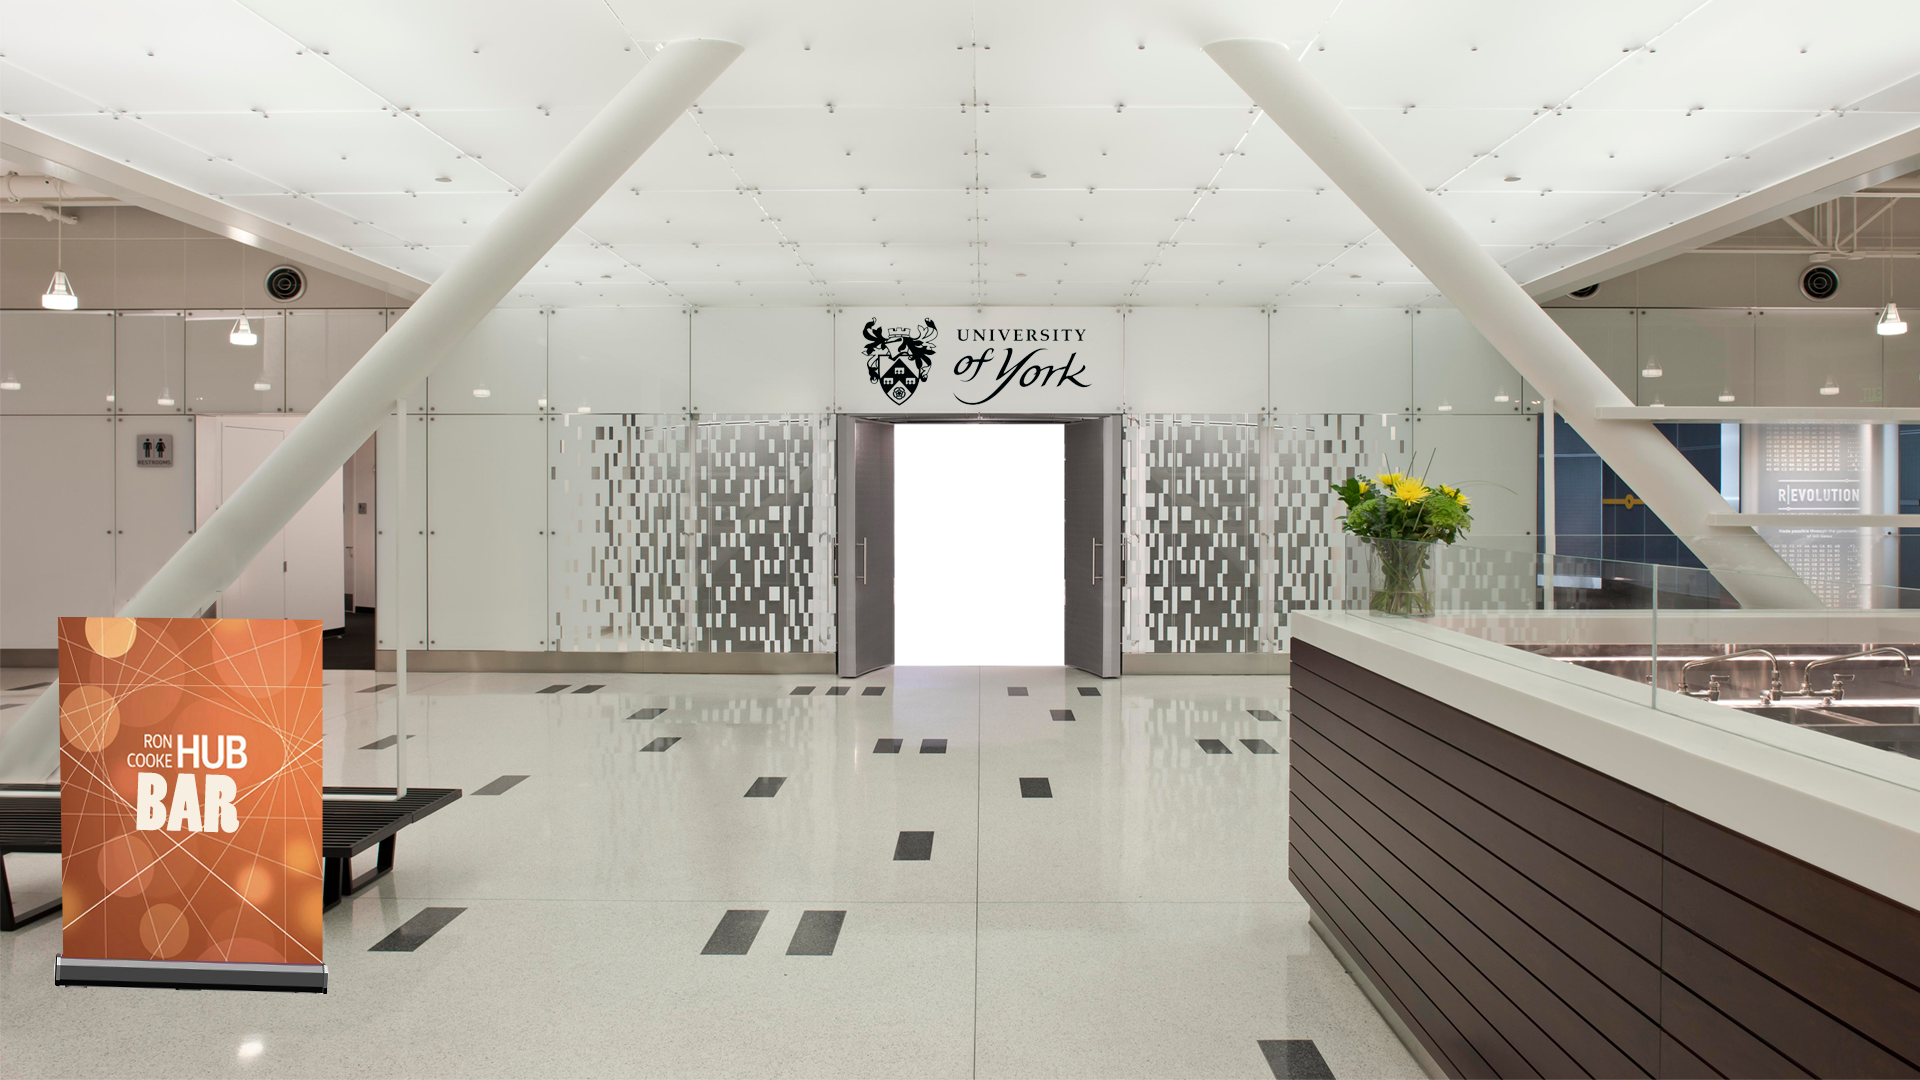
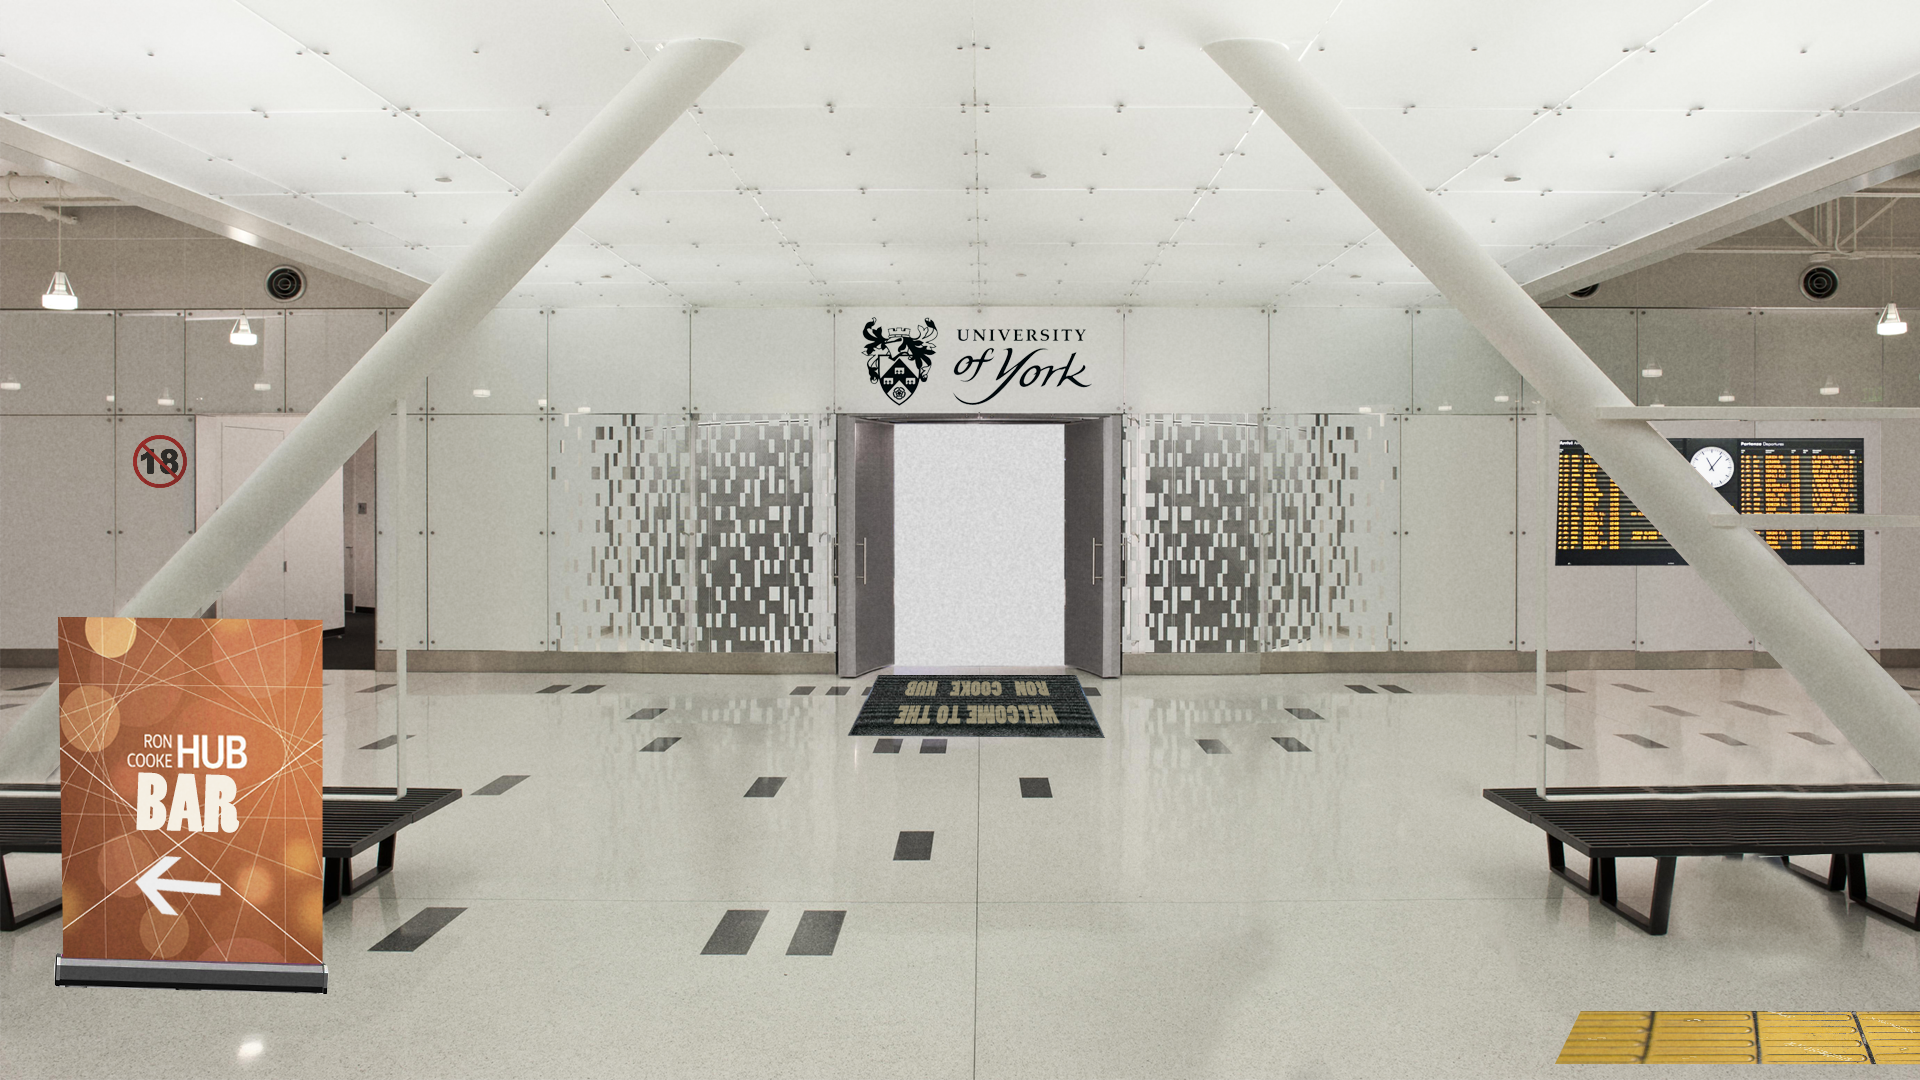
new bg for room 2. many more story and room2 methods, including the ability to check which characters belong in a room

diff --git a/Game/Clued-Up/Assets/Scripts/Room1Controller.cs b/Game/Clued-Up/Assets/Scripts/Room1Controller.cs
@@ -37,10 +37,21 @@ public class Room1Controller : MonoBehaviour {
 			
 	}
 
-	private void setBackground(Material[] mats){
+	private void setBackground(){
+		Material[] materialArray = new Material[8];
+		materialArray[0] = (Material)Resources.Load("Room1Sunny", typeof(Material)); //finds material located in the resources folder
+		materialArray[1] = (Material)Resources.Load("Room1Rain", typeof(Material));
+		materialArray[2] = (Material)Resources.Load("Room1Sunset", typeof(Material));
+		materialArray[3] = (Material)Resources.Load("Room1Snow", typeof(Material));
+		//floor materials start
+		materialArray[4] = (Material)Resources.Load("Room1FSunny", typeof(Material));
+		materialArray[5] = (Material)Resources.Load("Room1FRain", typeof(Material));
+		materialArray[6] = (Material)Resources.Load("Room1FSunset", typeof(Material));
+		materialArray[7] = (Material)Resources.Load("Room1FSnow", typeof(Material));
+
 		int weather = story.getWeather ();
-		backgroundPane.GetComponent<Renderer> ().material = mats [weather];
-		floor.GetComponent<Renderer> ().material = mats [weather + 4];
+		backgroundPane.GetComponent<Renderer> ().material = materialArray [weather];
+		floor.GetComponent<Renderer> ().material = materialArray [weather + 4];
 		if (weather == 1) {	//set generators depending on weather
 			rainGenerator.SetActive (true);
 		} else if (weather == 3) {
@@ -72,19 +83,8 @@ public class Room1Controller : MonoBehaviour {
 		story = GameObject.Find("Story").GetComponent<Story>(); // references persistant object story
 		detectives.transform.GetChild(story.getDetective()).gameObject.SetActive(true); //only activates the chosen detective by using the detective int as an index of children of the Detectives object
 
-		Material[] materialArray = new Material[8];
-		materialArray[0] = (Material)Resources.Load("Room1Sunny", typeof(Material)); //finds material located in the resources folder
-		materialArray[1] = (Material)Resources.Load("Room1Rain", typeof(Material));
-		materialArray[2] = (Material)Resources.Load("Room1Sunset", typeof(Material));
-		materialArray[3] = (Material)Resources.Load("Room1Snow", typeof(Material));
-		//floor materials start
-		materialArray[4] = (Material)Resources.Load("Room1FSunny", typeof(Material));
-		materialArray[5] = (Material)Resources.Load("Room1FRain", typeof(Material));
-		materialArray[6] = (Material)Resources.Load("Room1FSunset", typeof(Material));
-		materialArray[7] = (Material)Resources.Load("Room1FSnow", typeof(Material));
-
 		setOverlay ();
-		setBackground (materialArray);
+		setBackground ();
 		setLights ();
 		setClues ();
 

diff --git a/Game/Clued-Up/Assets/Scripts/Room2Controller.cs b/Game/Clued-Up/Assets/Scripts/Room2Controller.cs
@@ -1,10 +1,13 @@
 using UnityEngine;
 using System.Collections;
 using UnityEngine.UI;
+using System.Collections.Generic;
 
 public class Room2Controller : MonoBehaviour {
-	public GameObject backgroundPane;
 	public GameObject overlayPanel;
+	public GameObject doorQuad;
+		
+	private Story story;
 
 	private void setOverlay(){
 		//turns on overlay panel, fades it out
@@ -20,16 +23,47 @@ public class Room2Controller : MonoBehaviour {
 		bodyClue.GetComponent<Clue>().initialise("chalkOutline", "Chalk Outline", "A chalk outline of the deceased.");
 	}
 
+	private void setDoor(){
+		Material[] materialArray = new Material[8];
+		//maretialArray for DoorQuad materials
+		materialArray [0] = (Material)Resources.Load ("Room2DSunny", typeof(Material)); //finds material located in the resources folder
+		materialArray [1] = (Material)Resources.Load ("Room2DRain", typeof(Material));
+		materialArray [2] = (Material)Resources.Load ("Room2DSunset", typeof(Material));
+		materialArray [3] = (Material)Resources.Load ("Room2DSnow", typeof(Material));
+
+		doorQuad.GetComponent<Renderer> ().material = materialArray [story.getWeather ()];
+	}
+
+	private void getCharacters(){
+		List<GameObject> charactersInRoom = story.getCharactersInRoom (2);
+		switch (charactersInRoom.Count) {
+		case 1:
+			//do stuff to make one character active
+			Debug.Log (charactersInRoom [0].GetComponent<Character>().longName + "is in the room!");
+			break;
+		case 2:
+			//do stuff to make two characters active in the same room
+			break;
+		default:
+			Debug.Log ("No characters this time");
+			break;
+		}			
+	}
+
 	void Start () {
 		setOverlay ();
 		GameObject detective = GameObject.Find ("Detective");
 		detective.GetComponent<Detective> ().walkIn();
 
-		//Make vective slightly lower in screen
+		story = GameObject.Find("Story").GetComponent<Story>(); // references persistant object story
+
+		//Make detective slightly lower in screen
 		Vector3 pos = detective.transform.position;
 		pos.y = -6.5f;
 		detective.transform.position = pos;
 
+		setDoor ();
+		getCharacters ();
 		//setClues ();
 		//GameObject.Find("Detective").GetComponent<PlayerController> ().walkInFrom (true);
 	}

diff --git a/Game/Clued-Up/Assets/Scripts/Story.cs b/Game/Clued-Up/Assets/Scripts/Story.cs
@@ -8,7 +8,7 @@ public class Story : MonoBehaviour {
 
 	private int weather = 2; // 0 = sunny, 1 = rainy, 2 = sunset, 3 = snowy. 0 set for debug
 	private int detective; // int set by user in character selection
-	private Dictionary<int, int> charactersInRoom = new Dictionary<int,int>();
+	private Dictionary<int, List<int>> charactersInRoom = new Dictionary<int,List<int>>(); //characters in rooms stored as list of indexes for each roomID
 	private GameObject murderer;
 	private GameObject victim;
 	private List<GameObject> aliveCharacters;
@@ -141,13 +141,25 @@ public class Story : MonoBehaviour {
 			while(charactersInRoom.ContainsKey(randomRoom)){	//while there isnt already a character there
 				randomRoom = Random.Range (2, NUMBER_OF_ROOMS + 1);
 			}
-			charactersInRoom.Add (randomRoom, characterIndex); //CharactersInRoom[1] = 2 | char 2 is in room 1
+			charactersInRoom.Add (randomRoom, new List<int>{characterIndex}); //CharactersInRoom[1] = 2 | char 2 is in room 1 //using lists so it is adaptable to multiople chars in one room
 
 		}
 
-		foreach (KeyValuePair<int,int> room in charactersInRoom) {
-			Debug.Log ("charactersInRoom["+room.Key.ToString()+"] = " + room.Value.ToString());
+		foreach (KeyValuePair<int,List<int>> room in charactersInRoom) {
+			Debug.Log ("charactersInRoom["+room.Key.ToString()+"] = " + room.Value[0].ToString());
 		}
+	}
+
+	public List<GameObject> getCharactersInRoom(int room){
+		//returns list of all characters in given room
+		List<GameObject> charactersInRoom = new List<GameObject> (); 
+		if (this.charactersInRoom.ContainsKey (room)) {	//protects againnst invalid index exception
+			foreach (int characterIndex in this.charactersInRoom[room]) {
+				charactersInRoom.Add (this.aliveCharacters [characterIndex]);
+			}
+		}
+		return charactersInRoom;
+
 	}
 
 	public bool isMurderer(GameObject accused){
